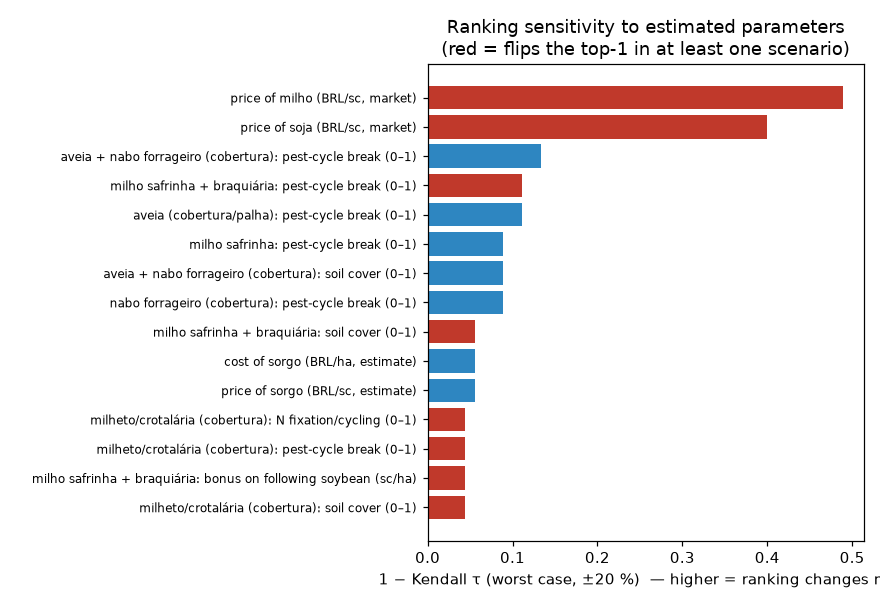
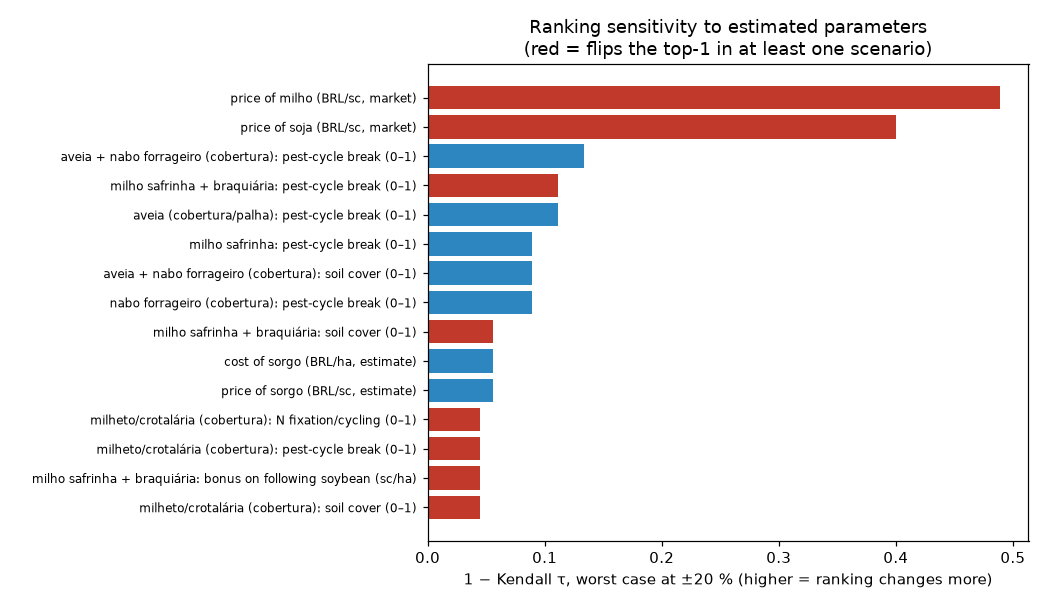
docs(pendencias): API restarted on the new code

diff --git a/motor_field_shift/scripts/validation/sensitivity.py b/motor_field_shift/scripts/validation/sensitivity.py
@@ -68,10 +68,10 @@ def main() -> None:
 
     # Figure: min Kendall tau per parameter (worst case across scenarios/signs), 15 most sensitive.
     top = imp.sort_values("min_tau").head(15).iloc[::-1]
-    fig, ax = plt.subplots(figsize=(8, 5.5))
+    fig, ax = plt.subplots(figsize=(9.5, 5.5))
     colors = ["#c0392b" if f > 0 else "#2e86c1" for f in top["top1_flips"]]
     ax.barh(top["label"], 1 - top["min_tau"], color=colors)
-    ax.set_xlabel("1 − Kendall τ (worst case, ±20 %)  — higher = ranking changes more")
+    ax.set_xlabel("1 − Kendall τ, worst case at ±20 % (higher = ranking changes more)")
     ax.set_title("Ranking sensitivity to estimated parameters\n(red = flips the top-1 in at least one scenario)")
     ax.tick_params(axis="y", labelsize=8)
     fig.tight_layout()

diff --git a/motor_field_shift/docs/pendencias.md b/motor_field_shift/docs/pendencias.md
@@ -54,7 +54,8 @@ This file is the living list of open items for the project (crop-rotation engine
 
 - **Running API out of date**: the uvicorn on port 8000 started at 19:41 on 14/11, without `--reload`, and serves the old code. It needs a restart. The response changes shape and `rotacao_atual` becomes required. Docs and examples already describe the new shape; the running process was not restarted by the docs task.
   Files: `api/field_shift_api/`.
-  Status: pending
+  Done (15/11/2026): the old process (started 02:17 on 15/11, without `--reload`) was stopped and the API was restarted from the `fix/pendencias-motor` branch (`uvicorn field_shift_api.main:app --app-dir api --port 8000`, still without `--reload`). `GET /health` is `ok` and a Curitiba request returns the Região 1 calendar warning. Restart it again after any code change.
+  Status: done
 
 ## Data/infra
 
